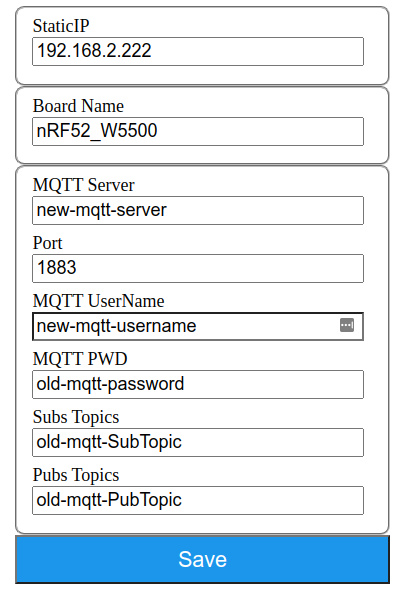
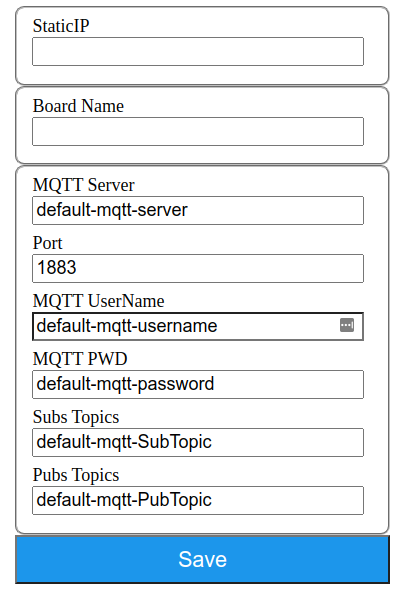
Releases v1.1.0 to add support to ESP32/ESP8266
### Releases v1.1.0

1. Add support to ESP32 and ESP8266 using EEPROM, SPIFFS or LittleFS
2. Add many complex MQTT Examples to demonstrate how to use the dynamic parameters, entered via Config Portal, to connect to **ThingStream MQTT Server** at `mqtt.thingstream.io`.

Changed region(s): [[0.0299, 0.0, 0.9875, 1.0]]

diff --git a/examples/MQTT_ThingStream_Ethernet_Generic/defines.h b/examples/MQTT_ThingStream_Ethernet_Generic/defines.h
@@ -340,7 +340,7 @@
     // From ESP8266 core 2.7.1, SPIFFS will be deprecated and to be replaced by LittleFS
     // Select USE_LITTLEFS (higher priority) or USE_SPIFFS
     
-    #define USE_LITTLEFS                false
+    #define USE_LITTLEFS                true
     #define USE_SPIFFS                  false
     
     #if USE_LITTLEFS

diff --git a/README.md b/README.md
@@ -714,13 +714,13 @@ If no valid config data are stored in EEPROM, it will switch to `Configuration M
 After you connected to, for example, `192.168.2.86`, the Browser will display the following picture:
 
 <p align="center">
-    <img src="https://github.com/khoih-prog/Ethernet_Manager/blob/main/pics/ConfigPortal_DUE.png">
+    <img src="https://github.com/khoih-prog/Ethernet_Manager/blob/main/pics/ConfigPortal.png">
 </p>
 
 Enter your credentials (Blynk Servers/Tokens and Port). If you prefer static IP, input it (for example `192.168.2.220`) in the corresponding field. Otherwise, just leave it `blank` or `nothing` to use auto IP assigned by DHCP server.
 
 <p align="center">
-    <img src="https://github.com/khoih-prog/Ethernet_Manager/blob/main/pics/ConfigPortal_DUE.png">
+    <img src="https://github.com/khoih-prog/Ethernet_Manager/blob/main/pics/ConfigPortal_Data.png">
 </p>
 
 Then click `Save`. After the  board auto-restarted, you will see if it's connected to your Blynk server successfully as in  the following picture:
